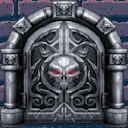
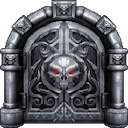
Still working on door opening animation

diff --git a/srcs/bonus/get_images_bonus.c b/srcs/bonus/get_images_bonus.c
@@ -54,8 +54,8 @@ void	get_door_image_1(t_data *data)
 	door_text = mlx_load_png("./tiles/door/door_open.png");
 	if (!door_text)
 		error_exit(data, mlx_strerror(mlx_errno), 1);
-	data->door_open_img = mlx_texture_to_image(data->mlx, door_text);
-	if (!data->door_open_img)
+	data->door_open_img[2] = mlx_texture_to_image(data->mlx, door_text);
+	if (!data->door_open_img[2])
 		error_exit(data, mlx_strerror(mlx_errno), 1);
 	mlx_delete_texture(door_text);
 }
@@ -87,6 +87,26 @@ void	get_door_image_2(t_data *data)
 	mlx_delete_texture(door_text);
 }
 
+void	get_door_image_3(t_data *data)
+{
+	mlx_texture_t	*door_text;
+
+	door_text = mlx_load_png("./tiles/door/door_opening_0.png");
+	if (!door_text)
+		error_exit(data, mlx_strerror(mlx_errno), 1);
+	data->door_open_img[0] = mlx_texture_to_image(data->mlx, door_text);
+	if (!data->door_open_img[0])
+		error_exit(data, mlx_strerror(mlx_errno), 1);
+	mlx_delete_texture(door_text);
+	door_text = mlx_load_png("./tiles/door/door_opening_1.png");
+	if (!door_text)
+		error_exit(data, mlx_strerror(mlx_errno), 1);
+	data->door_open_img[1] = mlx_texture_to_image(data->mlx, door_text);
+	if (!data->door_open_img[1])
+		error_exit(data, mlx_strerror(mlx_errno), 1);
+	mlx_delete_texture(door_text);
+}
+
 void	init_door_canvas(t_data *data)
 {
 	int	x;
@@ -101,7 +121,7 @@ void	init_door_canvas(t_data *data)
 	}
 }
 
-void	fix_open_door_img(t_data *data, mlx_image_t *wall_img)
+void	fix_door_img(mlx_image_t *door_img, mlx_image_t *wall_img)
 {
 	uint8_t *wall_px;
 	uint8_t	*door_px;
@@ -111,7 +131,7 @@ void	fix_open_door_img(t_data *data, mlx_image_t *wall_img)
 	int		colour;
 
 	wall_px = wall_img->pixels;
-	door_px = data->door_open_img->pixels;
+	door_px = door_img->pixels;
 	i = 0;
 	y = 0;
 	while (y < IMG_SIZE)
@@ -119,10 +139,10 @@ void	fix_open_door_img(t_data *data, mlx_image_t *wall_img)
 		x = 0;
 		while (x < IMG_SIZE)
 		{
-			if (door_px[i + 3] == 0 && !(y > 20 && x > 23 && x < 105))
+			if (door_px[i + 3] < 100 && !(y > 20 && x > 23 && x < 105))
 			{
 				colour = get_rgba(wall_px[i], wall_px[i + 1], wall_px[i + 2], wall_px[i + 3]);
-				mlx_put_pixel(data->door_open_img, x, y, colour);
+				mlx_put_pixel(door_img, x, y, colour);
 			}
 			x++;
 			i += 4;
@@ -137,6 +157,7 @@ void	get_images(t_data *data)
 	get_wall_sw_images(data);
 	get_door_image_1(data);
 	get_door_image_2(data);
+	get_door_image_3(data);
 	data->game_img = mlx_new_image(data->mlx, WINDOW_WIDTH, WINDOW_HEIGHT);
 	if (!data->game_img)
 		error_exit(data, mlx_strerror(mlx_errno), 1);

diff --git a/srcs/bonus/door_animation.c b/srcs/bonus/door_animation.c
@@ -1,30 +1,94 @@
 #include "cubed_bonus.h"
 
+void	door_opening_anim(t_data *data, long long x, long long y)
+{
+	int				iter_dir;
+	double			prev_time;
+	double			time;
+
+	if (data->map[y][x].is_open == 0)
+	{
+		data->map[y][x].type = '0';
+		data->map[y][x].is_open = 1;
+		data->door_open_iter = 0;
+		iter_dir = 1;
+	}
+	else
+		iter_dir = -1;
+
+//	printf("x=%lld, y=%lld\n", x, y);
+//	printf("BEFORE 1 draw: type: %c, is_open: %d, door_open_iter: %d, iter_dir: %d\n\n", \
+//	data->map[y][x].type, data->map[y][x].is_open, data->door_open_iter, iter_dir);
+
+	delete_and_init_images(data);
+	draw_image(data, data->player_angle - 30, WINDOW_WIDTH);
+
+	time = mlx_get_time();
+	prev_time = time;
+	while (time < prev_time + 0.2)
+		time = mlx_get_time();
+
+	data->door_open_iter += iter_dir;
+	delete_and_init_images(data);
+	draw_image(data, data->player_angle - 30, WINDOW_WIDTH);
+	prev_time = time;
+
+	while (time < prev_time + 0.2)
+		time = mlx_get_time();
+
+	data->door_open_iter += iter_dir;
+	delete_and_init_images(data);
+	draw_image(data, data->player_angle - 30, WINDOW_WIDTH);
+	prev_time = time;
+
+//	data->map[y][x].is_opening = 0;
+
+	while (time < prev_time + 0.3)
+		time = mlx_get_time();
+
+	if (data->door_open_iter == 0)
+	{
+		data->map[y][x].type = '1';
+		data->map[y][x].is_open = 0;
+		delete_and_init_images(data);
+		draw_image(data, data->player_angle - 30, WINDOW_WIDTH);
+	}
+	data->door_open_iter = 2;
+
+	
+}
+
+void	door_idle_anim(t_data *data)
+{
+	static int		iter_dir;
+
+	if (iter_dir == 0)
+		iter_dir = 1;
+	data->door_idle_iter += iter_dir;
+	if (data->door_idle_iter == 4)
+	{
+		data->door_idle_iter--;
+		iter_dir = -1;
+	}
+	else if (data->door_idle_iter == -1)
+	{
+		data->door_idle_iter++;
+		iter_dir = 1;
+	}
+}
+
 void	door_animation(void *param)
 {
 	t_data			*data;
 	static double	prev_time;
 	double			time;
-	static int		iter_dir;
 
 	data = param;
 	time = mlx_get_time();
-	if (iter_dir == 0)
-		iter_dir = 1;
 
 	if (time > prev_time + 0.2) // add ending flag here
 	{
-		data->door_iter += iter_dir;
-		if (data->door_iter == 4)
-		{
-			data->door_iter--;
-			iter_dir = -1;
-		}
-		else if (data->door_iter == -1)
-		{
-			data->door_iter++;
-			iter_dir = +1;
-		}
+		door_idle_anim(data);
 		delete_and_init_images(data);
 		draw_image(data, data->player_angle - 30, WINDOW_WIDTH);
 		prev_time = time;

diff --git a/srcs/bonus/draw_image_bonus.c b/srcs/bonus/draw_image_bonus.c
@@ -22,6 +22,37 @@ void	execute_drawing(t_data *data, int column, double wall_height)
 	data->found_open_door_horiz = 0;
 }
 
+void	get_door_pixels(t_data *data)
+{
+	char	direction;
+
+	// separate function
+	if (data->v_h_flag == 0 && data->player_coord[0] > data->vert_intersection_coord[0])
+		direction = 'W';
+	else if (data->v_h_flag == 0)
+		direction = 'E';
+	else if (data->v_h_flag == 1 && data->player_coord[1] > data->horizon_intersection_coord[1])
+		direction = 'N';
+	else
+		direction = 'S';
+
+	if (data->door_found_vert == 1)
+	{
+		if (direction == 'W')
+			fix_door_img(data->door_closed_img[data->door_idle_iter], data->wall_img_w);
+		else
+			fix_door_img(data->door_closed_img[data->door_idle_iter], data->wall_img_e);
+	}
+	else if (data->door_found_horiz == 1)
+	{
+		if (direction == 'N')
+			fix_door_img(data->door_closed_img[data->door_idle_iter], data->wall_img_n);
+		else
+			fix_door_img(data->door_closed_img[data->door_idle_iter], data->wall_img_s);
+	}
+	data->pixels = data->door_closed_img[data->door_idle_iter]->pixels;
+}
+
 void	draw_pixels(t_data *data, double wall_height)
 {
 	int		column_to_draw;
@@ -32,8 +63,8 @@ void	draw_pixels(t_data *data, double wall_height)
 			data->pixels = data->wall_img_w->pixels;
 		else
 			data->pixels = data->wall_img_e->pixels;
-		if (data->door_found_vert == 1) // own separate function
-			data->pixels = data->door_closed_img[data->door_iter]->pixels;
+		if (data->door_found_vert == 1)
+			get_door_pixels(data);
 		column_to_draw = (int)data->vert_intersection_coord[1] % IMG_SIZE;
 	}
 	else
@@ -42,8 +73,8 @@ void	draw_pixels(t_data *data, double wall_height)
 			data->pixels = data->wall_img_n->pixels;
 		else
 			data->pixels = data->wall_img_s->pixels;
-		if (data->door_found_horiz == 1) // own separate function
-			data->pixels = data->door_closed_img[data->door_iter]->pixels;
+		if (data->door_found_horiz == 1)
+			get_door_pixels(data);
 		column_to_draw = (int)data->horizon_intersection_coord[0] % IMG_SIZE;
 	}
 	execute_drawing(data, column_to_draw, wall_height);

diff --git a/srcs/bonus/draw_open_door.c b/srcs/bonus/draw_open_door.c
@@ -15,7 +15,7 @@ void	draw_open_door_pixels(t_data *data, double wall_height)
 {
 	int		column_to_draw;
 
-	data->pixels = data->door_open_img->pixels;
+	data->pixels = data->door_open_img[data->door_open_iter]->pixels;
 	if (data->v_h_flag == 0)
 	{
 		if (data->found_open_door_vert == 0)
@@ -24,7 +24,7 @@ void	draw_open_door_pixels(t_data *data, double wall_height)
 			return ;
 		}
 		column_to_draw = (int)data->vert_intersection_coord[1] % IMG_SIZE;
-		fix_open_door_img(data, data->wall_img_n); // TEST, change the wall img given based on intersection
+		fix_door_img(data->door_open_img[data->door_open_iter], data->wall_img_n); // evetually use get_door_pixels() in draw_image.c
 	}
 	else
 	{
@@ -34,7 +34,7 @@ void	draw_open_door_pixels(t_data *data, double wall_height)
 			return ;
 		}
 		column_to_draw = (int)data->horizon_intersection_coord[0] % IMG_SIZE;
-		fix_open_door_img(data, data->wall_img_n); // TEST, change the wall img given based on intersection
+		fix_door_img(data->door_open_img[data->door_open_iter], data->wall_img_n); // evetually use get_door_pixels() in draw_image.c
 	}
 	execute_open_door_drawing(data, column_to_draw, wall_height);
 }

diff --git a/incl/cubed_bonus.h b/incl/cubed_bonus.h
@@ -44,9 +44,10 @@
 typedef struct s_map
 {
 	char	type; // wall ('1'), empty space('0'), player ('P') etc
-	int		is_blank; // maybe not needed...?
 	int		is_door; // 0 or no door, 1 for door
 	int		is_open; // 0 for closed, 1 for open
+//	int		is_opening;
+//	int		open_img_iter;
 }			t_map;
 
 typedef struct s_enemy
@@ -72,10 +73,11 @@ typedef struct s_data
 
 //	mlx_image_t	*door;
 	mlx_image_t	*door_closed_img[4];
-	mlx_image_t	*door_open_img;
+	mlx_image_t	*door_open_img[3];
 	mlx_image_t *door_canvas;
 
-	int			door_iter;
+	int			door_idle_iter;
+	int			door_open_iter;
 
 	mlx_image_t *player_icon;
 	mlx_image_t *enemy_img;
@@ -187,8 +189,9 @@ void    draw_enemy(t_data *data);
 
 void	door_animation(void *param);
 void	init_door_canvas(t_data *data);
-void	fix_open_door_img(t_data *data, mlx_image_t *wall_img);
+void	fix_door_img(mlx_image_t *door_img, mlx_image_t *wall_img);
 void	draw_open_door(t_data *data, double ray_angle, double window_width);
+void	door_opening_anim(t_data *data, long long x, long long y);
 
 
 #endif

diff --git a/srcs/bonus/keyhook_bonus.c b/srcs/bonus/keyhook_bonus.c
@@ -3,15 +3,9 @@
 int	change_door_stat(t_data *data, long long x, long long y)
 {
 	if (data->map[y][x].is_door == 1 && data->map[y][x].is_open == 0)
-	{
-		data->map[y][x].is_open = 1;
-		data->map[y][x].type = '0';
-	}
-	else if (data->map[y][x].is_door == 1 && data->map[y][x].is_open == 1)
-	{
-		data->map[y][x].is_open = 0;
-		data->map[y][x].type = '1';
-	}
+		door_opening_anim(data, x, y);
+	else if (data->map[y][x].is_door == 1 && data->map[y][x].is_open == 1) // we don't need this...?
+		door_opening_anim(data, x, y);
 	return (1);
 }
 
@@ -41,8 +35,8 @@ void	open_door(t_data *data)
 
 	if (check_for_door(data, x, y) == 1)
 	{
-		delete_and_init_images(data);
-		draw_image(data, data->player_angle - 30, WINDOW_WIDTH);
+		// delete_and_init_images(data);
+		// draw_image(data, data->player_angle - 30, WINDOW_WIDTH);
 	}
 }
 

diff --git a/srcs/bonus/get_map_bonus.c b/srcs/bonus/get_map_bonus.c
@@ -13,6 +13,8 @@ void	init_map_flags(t_data *data)
 		{
 			data->map[y][x].is_door = 0;
 			data->map[y][x].is_open = 0;
+			//data->map[y][x].is_opening = 0;
+			// data->map[y][x].open_img_iter = 0;
 		}
 	}
 }
@@ -35,9 +37,9 @@ void	assign_map(t_data *data)
 				data->map[y][x].type = '1';
 			else if (x == 2 && y == 2)
 				data->map[y][x].type = 'P';
-			else if ((x == 4 && y == 4) || (x == 6 && y == 4))
+			else if ((x == 4 && y == 4) || (x == 7 && y == 4))
 				data->map[y][x].type = '1';
-			else if (x == 5 && y == 4)
+			else if ((x == 5 && y == 4) || (x == 6 && y == 4))
 			{
 				data->map[y][x].type = '1';
 				data->map[y][x].is_door = 1;

diff --git a/srcs/bonus/main_bonus.c b/srcs/bonus/main_bonus.c
@@ -24,7 +24,9 @@ void	init_data(t_data *data)
 	data->door_found_vert = 0;
 	data->door_found_horiz = 0;
 
-	data->door_iter = 0;
+	data->door_idle_iter = 0;
+	data->door_open_iter = 0;
+
 	data->handling_open_door = 0;
 	data->found_open_door_vert = 0;
 	data->found_open_door_horiz = 0;
